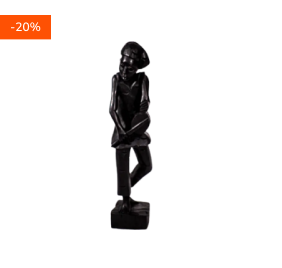
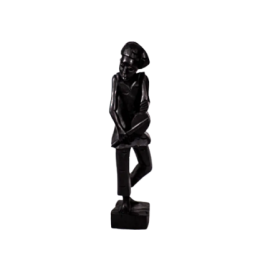
store

Changed region(s): [[0.3881, 0.1493, 0.5672, 0.8657], [0.0, 0.0299, 0.209, 0.1493]]

diff --git a/app/(community)/store/component/ProductCardHotDeals.tsx b/app/(community)/store/component/ProductCardHotDeals.tsx
@@ -37,18 +37,18 @@ export default function ProductCardHotDeals({
   discount,
 }: Props) {
   return (
-    <div className=" shadow pb-7 hover:border-secondary  active:border active:border-primary hover:border bg-white">
+    <div className=" shadow pb-5 hover:border-secondary  active:border active:border-primary hover:border bg-white">
       <div className="relative">
-        <Image src={image!!} alt="" className="w-full" />
+        <Image src={image} alt="" className="w-full bgred-500 h-[16.8rem] " />
         {discount ?  <p className="absolute top-6 left-0 bg-[#FE5104] text-white px-4 text-xs py-2  ">{discount}</p> : null}
       </div>
       <div className="ml-4">
-        <p className="font-[500] text-lg w-[18rem] pt-4">{content}</p>
+        <p className="font-[500] lg:text-lg  text-sm w-[18rem] pt-4">{content}</p>
         <p className="text-gray-400  lg:text-lg pt-1">{content1}</p>
         <p className="pt-1">{content2}</p>
-        <div className="lg:flex gap-2">
+        <div className="flex gap-2">
           <p className="">{price}</p>
-          <p className="text-orange-400">{price1}</p>
+        {price1 ?  <p className="text-orange-400">{price1}</p> : null } 
         </div>
       </div>
     </div>

diff --git a/lib/data.tsx b/lib/data.tsx
@@ -930,7 +930,7 @@ export const StorehotDeal = [
   {
     id: "1",
     image: box,
-    content: "Raffia Handbag(Box), Woven Shoulder Bag, Summer Bag",
+    content: "Raffia Handbag(Box), Woven Shoulder Bag.",
     content1: "Jewelry Bags & Accessories",
     price: "$11.00",
     discount: "-20%`",
@@ -944,7 +944,7 @@ export const StorehotDeal = [
     content1: "Art & Collectibles",
     content2: "",
     price: "$200.00",
-    // discount: "-20%`",
+    discount: "-20%`",
     price1: "$160.00",
   },
 
@@ -954,6 +954,7 @@ export const StorehotDeal = [
     content: "African Print",
     content1: "Art & Collectibles",
     content2: "",
+    price: "",
     discount: "-20%`",
     price1: "$16.00",
   },
@@ -973,6 +974,7 @@ export const StorehotDeal = [
     content: "",
     content1: "Books & Magazines Ebooks",
     content2: "Short Stories (Ebooks)",
+    price: "",
     // discount: "-20%`",
     price1: "$2.00",
   },
@@ -981,6 +983,8 @@ export const StorehotDeal = [
     image: ace1,
     content: "Ace",
     content1: "Music & Entertainment",
+    content2:" ",
+    price: " ",
     discount: "-20%`",
     price1: "$4.00",
   },

diff --git a/app/(authpages)/layout.tsx b/app/(authpages)/layout.tsx
@@ -27,4 +27,4 @@ export default function RootLayout({
       </body>
     </html>
   );
-}
+} 
